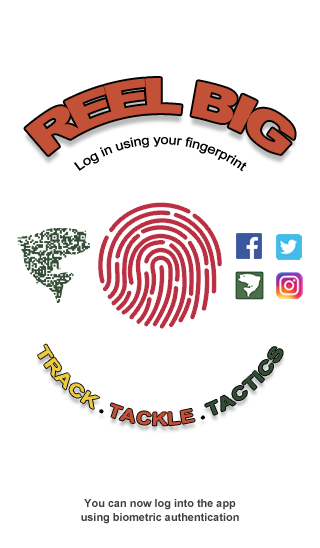
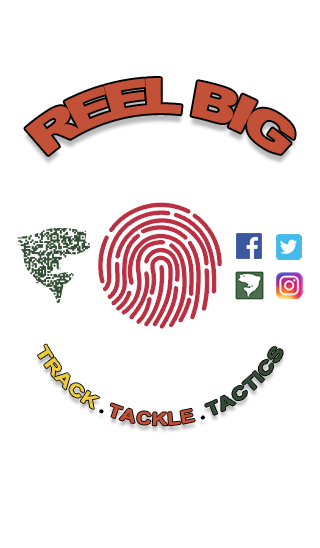
udated login image, shadow for map

Changed region(s): [[0.25, 0.8996, 0.75, 0.9617], [0.3125, 0.2482, 0.7812, 0.3102], [0.2188, 0.2792, 0.3125, 0.3102]]

diff --git a/public/dashboard.html b/public/dashboard.html
@@ -17,19 +17,20 @@
         </script>
     <!--Let browser know website is optimized for mobile-->
     <meta name="viewport" content="width=device-width, initial-scale=1.0" />
-    <link rel="stylesheet" href="./assets/css/styles.css">
-    <link rel="icon" type="image/png" href="../public/assets/img/socialRBA1lined.png">
+    <link rel="stylesheet" href="assets/css/styles.css">
+    <link rel="icon" type="image/png" href="assets/img/socialRBA1lined.png">
 
     <script src="https://code.jquery.com/jquery-3.4.1.slim.min.js"
         integrity="sha384-J6qa4849blE2+poT4WnyKhv5vZF5SrPo0iEjwBvKU7imGFAV0wwj1yYfoRSJoZ+n" crossorigin="anonymous">
         </script>
     <script src="assets/js/index.js"></script>
+    <script src="assets/js/markers.js"></script>
 </head>
 
 <body>
     <nav>
         <div class="nav-wrapper rbagreen center">
-            <a href="dashboard.html" class="brand-logo"><img id="toppagelogo" src="./assets/img/logogif.gif" alt=""
+            <a href="dashboard.html" class="brand-logo"><img id="toppagelogo" src="assets/img/logogif.gif" alt=""
                     height="60" width="300">
             </a>
             <ul id="nav-mobile" class="right hide-on-med-and-down">
@@ -42,16 +43,16 @@
 
     <div class="row">
         <!-- Google Maps Container -->
-        <div class="center" id="googleMap" style="width:100%;height:400px;"></div>
+        <div class="center z-depth-2" id="googleMap" style="width:100%;height:400px;"></div>
         <div id="hookspot" class="col s2 m2">
             <!-- Submit Button  -->
-            <img class="center" width="150px" height="150px" src="../public/assets/img/hookreal1024.png"
+            <img class="center " width="150px" height="150px" src="assets/img/hookreal1024.png"
                 id="fishLocationSubmitButton" type="button" onclick="fishDataSubmit()">
 
         </div>
         <div class="col s3 m3">
             </br>
-            <a class="col s4 m4 offset-s1" id="modalBtn"><img src="./assets/img/tacklebox.png" width="150px"></a>
+            <a class="col s4 m4 offset-s1" id="modalBtn"><img src="assets/img/tacklebox.png" width="150px"></a>
         </div>
         <div id="rigModal" class="modal">
             <div class="modal-content">
